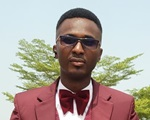
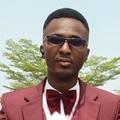
commit

diff --git a/styles.css b/styles.css
@@ -18,8 +18,6 @@
 
 img {
     border-radius: 50%;
-    width: 150px;
-    height: 150px;
 }
 
 h1 {
@@ -54,11 +52,11 @@ button {
     padding: 6px 22px;
     margin-bottom: 52px;
     cursor: pointer;
-}
+/* }
 
 button:hover {
     color: aquamarine;
-}
+} */
 
 @media screen and (max-width: 850px) {
     .parent {
